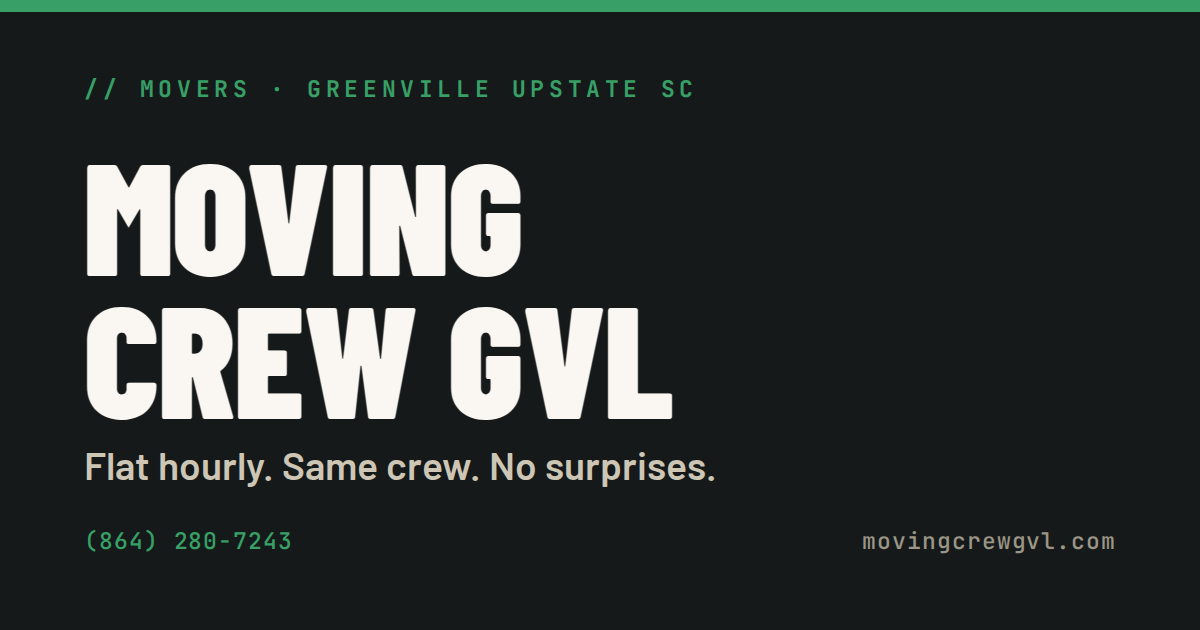
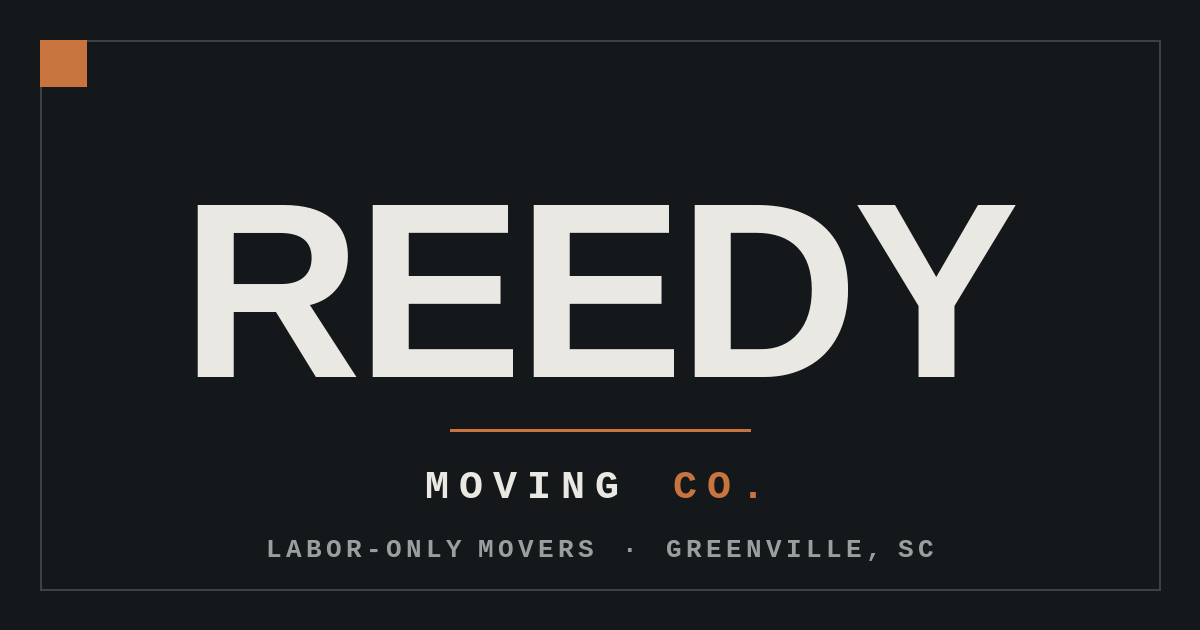
Rebrand: Moving Crew GVL → Reedy Moving Co. (reedymoving.com)
Full production rebrand to Reedy Moving Co. on reedymoving.com.

- Brand sweep: name, domain, email ([email redacted]), wordmark,
  copyright, README, favicon (R mark) — no stray old refs remain.
- Machine legibility: title, OG tags, JSON-LD (MovingCompany name/url/
  image/email), robots Sitemap, sitemap loc all repointed to reedymoving.com.
- Mill-rust accent (--ember #c8743f) added as a real token and applied
  deliberately into the existing light design: primary CTAs, § section
  glyphs, hero "Heavy" + kicker glyph, the "Co." in the wordmark, and the
  heritage-strip top rule. Green demoted to secondary; no full re-theme.
- Hero: added spec-label kicker + "Greenville movers" subhead.
- Heritage strip ("Why Reedy") + Liberty Bridge blueprint SVG on a dark
  band above the footer.
- Regenerated og-image.png (1200×630, REEDY wordmark on #14181a).

Claude-Session: https://claude.ai/code/session_017dVyqmmPXpgfryoJvRFw1d

diff --git a/index.html b/index.html
@@ -3,7 +3,7 @@
 <head>
 <meta charset="utf-8" />
 <meta name="viewport" content="width=device-width, initial-scale=1" />
-<title>Movers in Greenville, SC | Moving Crew GVL</title>
+<title>Movers in Greenville, SC | Reedy Moving Co.</title>
 <meta name="description" content="Local labor-only movers serving Greenville, Greer, Simpsonville &amp; Travelers Rest. Flat hourly rates, no truck needed — loading, unloading, packing. Free quote within 24 hours.">
 <link rel="icon" type="image/svg+xml" href="favicon.svg">
 <link rel="icon" type="image/png" sizes="32x32" href="favicon-32.png">
@@ -15,20 +15,20 @@
 
 <!-- Open Graph (link previews + agent metadata) -->
 <meta property="og:type" content="website">
-<meta property="og:title" content="Movers in Greenville, SC | Moving Crew GVL">
+<meta property="og:title" content="Movers in Greenville, SC | Reedy Moving Co.">
 <meta property="og:description" content="Local labor-only movers in the Upstate. Flat hourly rates, no surprises. Free quote in 24 hours.">
-<meta property="og:url" content="https://www.movingcrewgvl.com">
-<meta property="og:image" content="https://www.movingcrewgvl.com/og-image.png">
+<meta property="og:url" content="https://www.reedymoving.com">
+<meta property="og:image" content="https://www.reedymoving.com/og-image.png">
 
 <script type="application/ld+json">
 {
   "@context": "https://schema.org",
   "@type": "MovingCompany",
-  "name": "Moving Crew GVL",
-  "url": "https://www.movingcrewgvl.com",
-  "image": "https://www.movingcrewgvl.com/og-image.png",
+  "name": "Reedy Moving Co.",
+  "url": "https://www.reedymoving.com",
+  "image": "https://www.reedymoving.com/og-image.png",
   "telephone": "+1-864-280-7243",
-  "email": "[email redacted]",
+  "email": "[email redacted]",
   "priceRange": "$149–$269/hr",
   "foundingDate": "2026",
   "description": "Owner-operated, labor-only local movers serving the Greenville, SC Upstate. Loading, unloading, packing, and single-item moves at flat hourly rates.",
@@ -120,6 +120,8 @@
     --green-deep:#1f5a39;
     --line:#cdc6b5;
     --line-dark:#9b9685;
+    --ember:#c8743f;        /* mill-rust — primary brand accent, used sparingly */
+    --ember-hover:#d9854b;
   }
   *{box-sizing:border-box;margin:0;padding:0}
   html,body{background:var(--cream);color:var(--ink);font-family:'Barlow',system-ui,sans-serif;font-weight:400;line-height:1.55;-webkit-font-smoothing:antialiased;text-rendering:optimizeLegibility}
@@ -154,6 +156,7 @@
   .logo-mark::after{content:"";position:absolute;inset:auto -4px -4px auto;width:10px;height:10px;background:var(--green)}
   .logo-word{font-family:'Barlow Condensed',sans-serif;font-weight:900;font-size:22px;text-transform:uppercase;letter-spacing:.02em;line-height:1}
   .logo-word small{display:block;font-family:'JetBrains Mono',monospace;font-weight:500;font-size:9px;letter-spacing:.28em;color:var(--green);margin-top:3px}
+  .logo-word .co{color:var(--ember)}
 
   .nav-links{display:flex;gap:28px;align-items:center}
   .nav-links a{font-family:'JetBrains Mono',monospace;font-weight:500;font-size:11px;letter-spacing:.18em;text-transform:uppercase;color:var(--ink-soft)}
@@ -162,8 +165,8 @@
 
   .btn{display:inline-flex;align-items:center;justify-content:center;gap:10px;padding:14px 22px;font-family:'Barlow',sans-serif;font-weight:700;font-size:13px;letter-spacing:.18em;text-transform:uppercase;border:1px solid transparent;transition:background .15s, color .15s, border-color .15s, transform .05s;position:relative}
   .btn:active{transform:translateY(1px)}
-  .btn-primary{background:var(--green);color:#fff}
-  .btn-primary:hover{background:var(--green-hover)}
+  .btn-primary{background:var(--ember);color:#fff}
+  .btn-primary:hover{background:var(--ember-hover)}
   .btn-ink{background:var(--ink);color:var(--cream)}
   .btn-ink:hover{background:var(--green)}
   .btn-ghost{background:transparent;color:var(--ink);border-color:var(--ink)}
@@ -174,7 +177,7 @@
 
   /* Section marker — § 01 / HERO */
   .sect-marker{display:flex;align-items:center;gap:14px;font-family:'JetBrains Mono',monospace;font-size:11px;letter-spacing:.22em;text-transform:uppercase;color:var(--green);padding-bottom:14px;border-bottom:1px solid var(--line);margin-bottom:48px}
-  .sect-marker .glyph{font-size:13px;color:var(--ink)}
+  .sect-marker .glyph{font-size:13px;color:var(--ember)}
   .sect-marker .name{color:var(--ink)}
   .sect-marker .spacer{flex:1;height:1px;background:var(--line)}
   .sect-marker .right{color:var(--muted)}
@@ -188,7 +191,7 @@
   .hero-top .v{color:var(--ink);font-weight:500}
   .hero-headline{position:relative}
   .hero-headline h1{font-size:clamp(76px,15vw,260px);line-height:.86}
-  .hero-headline h1 .accent{color:var(--green)}
+  .hero-headline h1 .accent{color:var(--ember)}
   .hero-headline h1 .row{display:block;white-space:nowrap}
   .hero-headline h1 .row.shift{margin-left:.18em}
   /* Layered "specs" overlay over the headline */
@@ -338,8 +341,8 @@
   .tier.feature .rate .currency,
   .tier.feature .rate .per{color:rgba(250,247,243,.75)}
   .tier.feature ul li .v{color:#fff}
-  .tier.feature .btn-primary{background:var(--green-hover);color:var(--ink)}
-  .tier.feature .btn-primary:hover{background:#fff}
+  .tier.feature .btn-primary{background:var(--ember);color:#fff}
+  .tier.feature .btn-primary:hover{background:var(--ember-hover)}
   .tier.feature .ribbon{position:absolute;top:0;right:0;background:var(--green-hover);color:var(--ink);font-family:'JetBrains Mono',monospace;font-weight:700;font-size:10px;letter-spacing:.22em;text-transform:uppercase;padding:6px 12px}
 
   .estimate-foot{display:grid;grid-template-columns:1fr 1fr;border-top:1px solid var(--ink);background:var(--cream-2)}
@@ -449,9 +452,23 @@
   .mobile-cta a{flex:1;display:inline-flex;align-items:center;justify-content:center;gap:8px;min-height:50px;font-family:'Barlow',sans-serif;font-weight:700;font-size:13px;letter-spacing:.16em;text-transform:uppercase;border:1px solid transparent}
   .mobile-cta .m-call{background:transparent;color:var(--cream);border-color:rgba(250,247,243,.4)}
   .mobile-cta .m-call:active{background:rgba(250,247,243,.1)}
-  .mobile-cta .m-quote{background:var(--green);color:#fff}
-  .mobile-cta .m-quote:active{background:var(--green-deep)}
+  .mobile-cta .m-quote{background:var(--ember);color:#fff}
+  .mobile-cta .m-quote:active{background:var(--ember-hover)}
   .mobile-cta svg{width:15px;height:15px;flex:0 0 auto}
+
+  /* ---------- HERO KICKER (spec label above headline) ---------- */
+  .kicker{display:flex;align-items:center;gap:9px;font-family:'JetBrains Mono',monospace;font-weight:500;font-size:11px;letter-spacing:.2em;text-transform:uppercase;color:var(--ink-soft);margin-bottom:22px}
+  .kicker .glyph{color:var(--ember);font-size:13px}
+
+  /* ---------- HERITAGE STRIP ("Why Reedy") + bridge mark ---------- */
+  .millstrip-sec{background:var(--ink);padding:60px 0}
+  .millstrip-sec .bridge-mark{margin:0 auto 30px;display:block}
+  .millstrip{border:1px solid var(--line-dark);border-top:2px solid var(--ember);
+    padding:24px 30px;background:var(--paper)}
+  .millstrip .lab{font-family:'JetBrains Mono',monospace;font-size:10px;letter-spacing:.2em;
+    text-transform:uppercase;color:var(--ember);margin-bottom:10px}
+  .millstrip p{font-family:'Barlow Condensed',sans-serif;font-weight:600;text-transform:uppercase;
+    font-size:clamp(18px,5vw,26px);line-height:1.12;max-width:24ch;color:var(--ink)}
 
   /* ---------- Responsive ---------- */
   @media (max-width: 1100px){
@@ -571,7 +588,7 @@
 <!-- ========== NAV ========== -->
 <nav class="nav" id="nav" data-screen-label="Nav">
   <div class="nav-inner">
-    <a href="#top" class="logo" aria-label="Moving Crew GVL home">
+    <a href="#top" class="logo" aria-label="Reedy Moving Co. home">
       <span class="logo-mark" aria-hidden="true">
         <svg viewBox="0 0 24 24" fill="none" stroke="#faf7f3" stroke-width="1.8" stroke-linecap="round" stroke-linejoin="round">
           <rect x="9" y="4.5" width="8.5" height="6" stroke-width="1.7"/>
@@ -582,7 +599,7 @@
           <circle cx="8.4" cy="21.4" r="2" stroke-width="1.7"/>
         </svg>
       </span>
-      <span class="logo-word">Moving Crew<small>Est. 2026 · GVL</small></span>
+      <span class="logo-word">Reedy Moving <span class="co">Co.</span><small>Est. 2026 · Travelers Rest, SC</small></span>
     </a>
     <div class="nav-links" aria-label="Primary">
       <a href="#how"><span>01</span>How</a>
@@ -604,6 +621,7 @@
 <header class="hero" data-screen-label="01 Hero">
   <div class="wrap">
     <div class="hero-headline">
+      <p class="kicker"><span class="glyph">§</span> Labor-only moving · Greenville &amp; the Upstate, SC</p>
       <h1 class="display">
         <span class="row">We Do</span>
         <span class="row shift">The <span class="accent">Heavy</span></span>
@@ -612,7 +630,7 @@
     </div>
 
     <div class="hero-bottom">
-      <p class="sub">Local movers who show up on time, treat your stuff like their own, and don't leave until the job's done right.</p>
+      <p class="sub">Greenville movers who show up on time, treat your stuff like their own, and don't leave until the job's done right.</p>
       <div class="ctas">
         <a href="#quote" class="btn btn-primary btn-lg">Get a Free Quote
           <svg class="arrow" viewBox="0 0 16 16" fill="none" stroke="currentColor" stroke-width="2"><path d="M3 8 H13 M9 4 L13 8 L9 12"/></svg>
@@ -1009,8 +1027,33 @@
   </div>
 </section>
 
+<!-- ========== HERITAGE STRIP ("Why Reedy") ========== -->
+<section class="millstrip-sec" data-screen-label="09 Heritage">
+  <div class="wrap">
+    <svg class="bridge-mark" viewBox="0 0 220 150" fill="none" stroke="#c8743f" stroke-width="1.1"
+         stroke-linecap="round" width="200" aria-hidden="true">
+      <path d="M150 14 L116 104"/>
+      <path d="M6 104 Q110 78 214 104" stroke="#cfd2cf" stroke-width="1.4"/>
+      <path d="M150 14 L40 99"/><path d="M150 14 L70 92"/><path d="M150 14 L98 86"/>
+      <path d="M150 14 L126 87"/><path d="M150 14 L160 92"/><path d="M150 14 L196 99"/>
+      <path d="M116 104 L116 118" stroke="#cfd2cf"/><path d="M150 14 L150 8" stroke="#cfd2cf"/>
+      <g stroke="#5a6563" stroke-width="1">
+        <path d="M30 126 L30 138"/><path d="M50 124 L50 137"/><path d="M70 127 L70 139"/>
+        <path d="M90 125 L90 138"/><path d="M110 128 L110 140"/><path d="M130 125 L130 138"/>
+        <path d="M150 127 L150 139"/><path d="M170 125 L170 137"/><path d="M190 127 L190 139"/>
+      </g>
+      <g stroke="#5a6563" stroke-width=".8"><path d="M6 112 L214 112"/>
+        <path d="M6 108 L6 116"/><path d="M214 108 L214 116"/></g>
+    </svg>
+    <div class="millstrip">
+      <div class="lab">// Why "Reedy"</div>
+      <p>The Reedy ran the mills that built this town. We just kept the working part.</p>
+    </div>
+  </div>
+</section>
+
 <!-- ========== FOOTER ========== -->
-<footer data-screen-label="09 Footer">
+<footer data-screen-label="10 Footer">
   <div class="wrap">
     <div class="foot">
       <div class="col">
@@ -1018,14 +1061,14 @@
           <span class="logo-mark" aria-hidden="true">
             <svg viewBox="0 0 24 24" fill="none" stroke="#faf7f3" stroke-width="1.8" stroke-linecap="round" stroke-linejoin="round"><rect x="9" y="4.5" width="8.5" height="6" stroke-width="1.7"/><rect x="9" y="10.5" width="8.5" height="5.3" stroke-width="1.7"/><path d="M6 3 V19"/><path d="M6 19 H16.5"/><path d="M6 19 L3.4 21.6"/><circle cx="8.4" cy="21.4" r="2" stroke-width="1.7"/></svg>
           </span>
-          <span class="logo-word">Moving Crew<small style="color:var(--green-hover)">Est. 2026 · GVL</small></span>
+          <span class="logo-word">Reedy Moving <span class="co">Co.</span><small style="color:var(--green-hover)">Est. 2026 · Travelers Rest, SC</small></span>
         </a>
         <p style="margin-top:14px;max-width:32ch">Locally owned moving labor. Brayden and family. No franchise. No call center.</p>
       </div>
       <div class="col">
         <h5>// Contact</h5>
         <a href="tel:8642807243">864.280.7243</a>
-        <a href="mailto:[email redacted]">[email redacted]</a>
+        <a href="mailto:[email redacted]">[email redacted]</a>
         <p>Mon — Sat / 7am to 7pm</p>
       </div>
       <div class="col">
@@ -1045,7 +1088,7 @@
       </div>
     </div>
     <div class="foot-bar">
-      <span class="pulse">© 2026 Moving Crew GVL</span>
+      <span class="pulse">© 2026 Reedy Moving Co.</span>
       <span>Built in Travelers Rest · v2.6</span>
     </div>
   </div>

diff --git a/README.md b/README.md
@@ -1,3 +1,3 @@
-# Moving Crew GVL
+# Reedy Moving Co.
 
-Work order intake page for Moving Crew Greenville. Single-page static HTML, deployed to Vercel.
+Work order intake page for Reedy Moving Co. (Greenville / Upstate SC). Single-page static HTML, deployed to Vercel. Domain: reedymoving.com